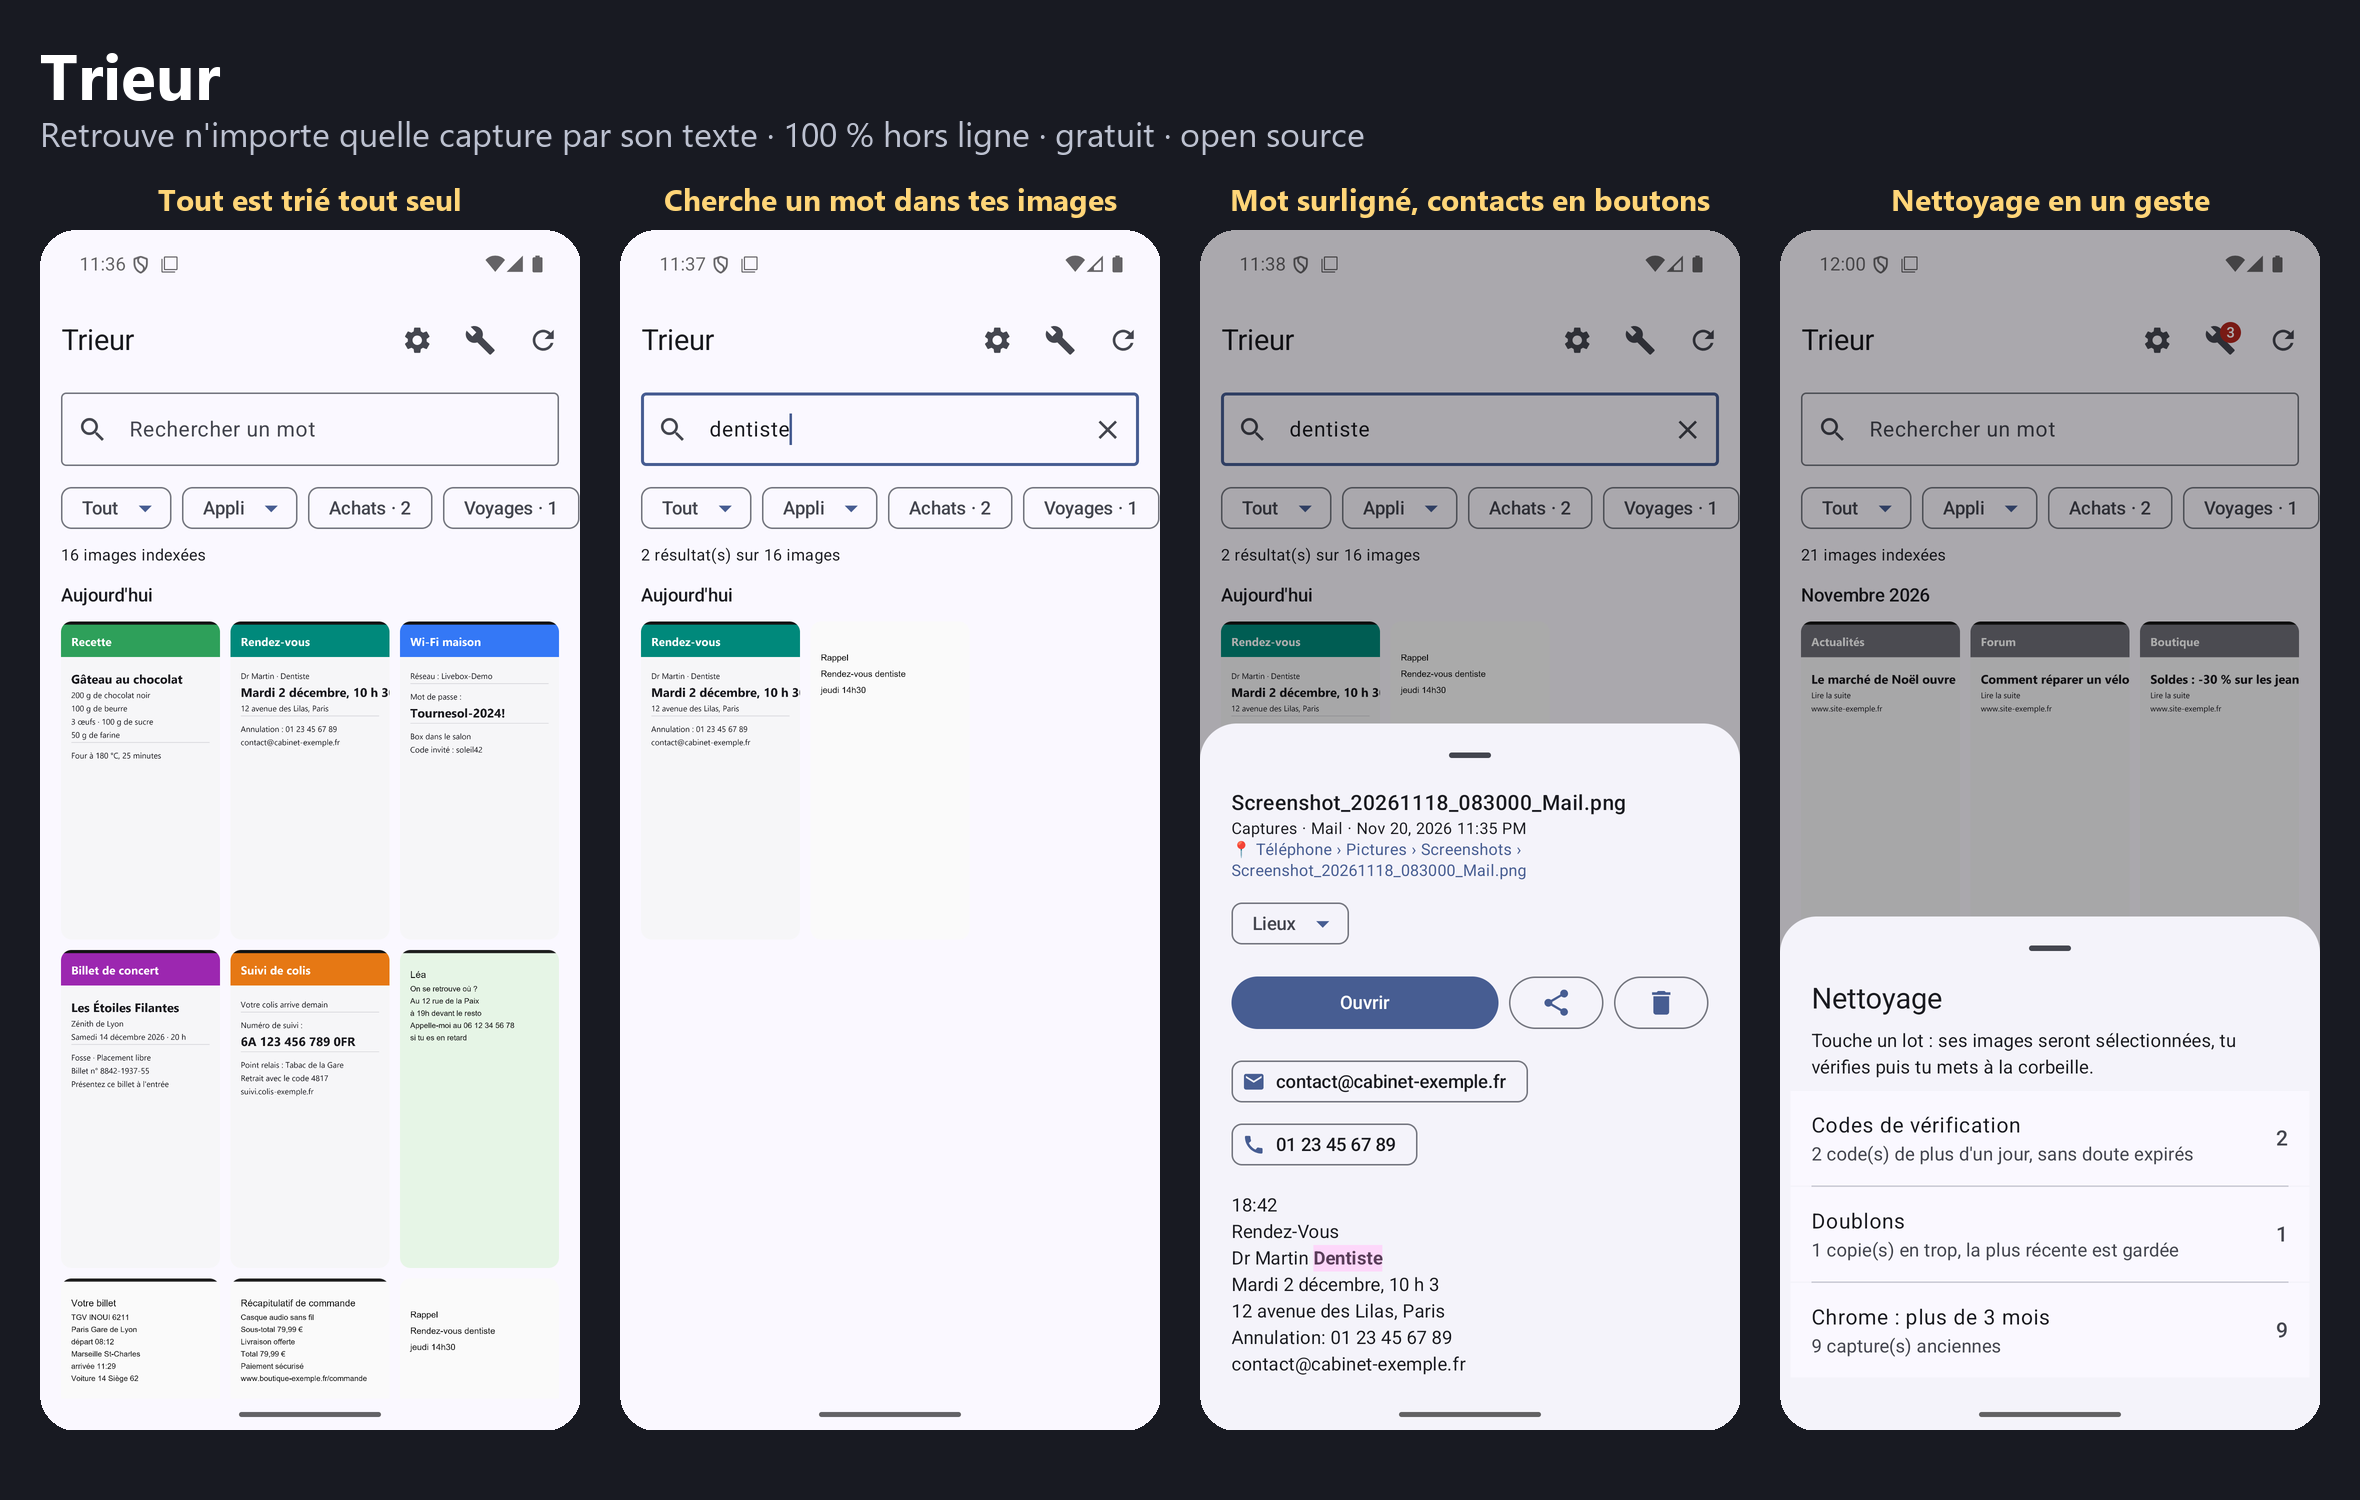
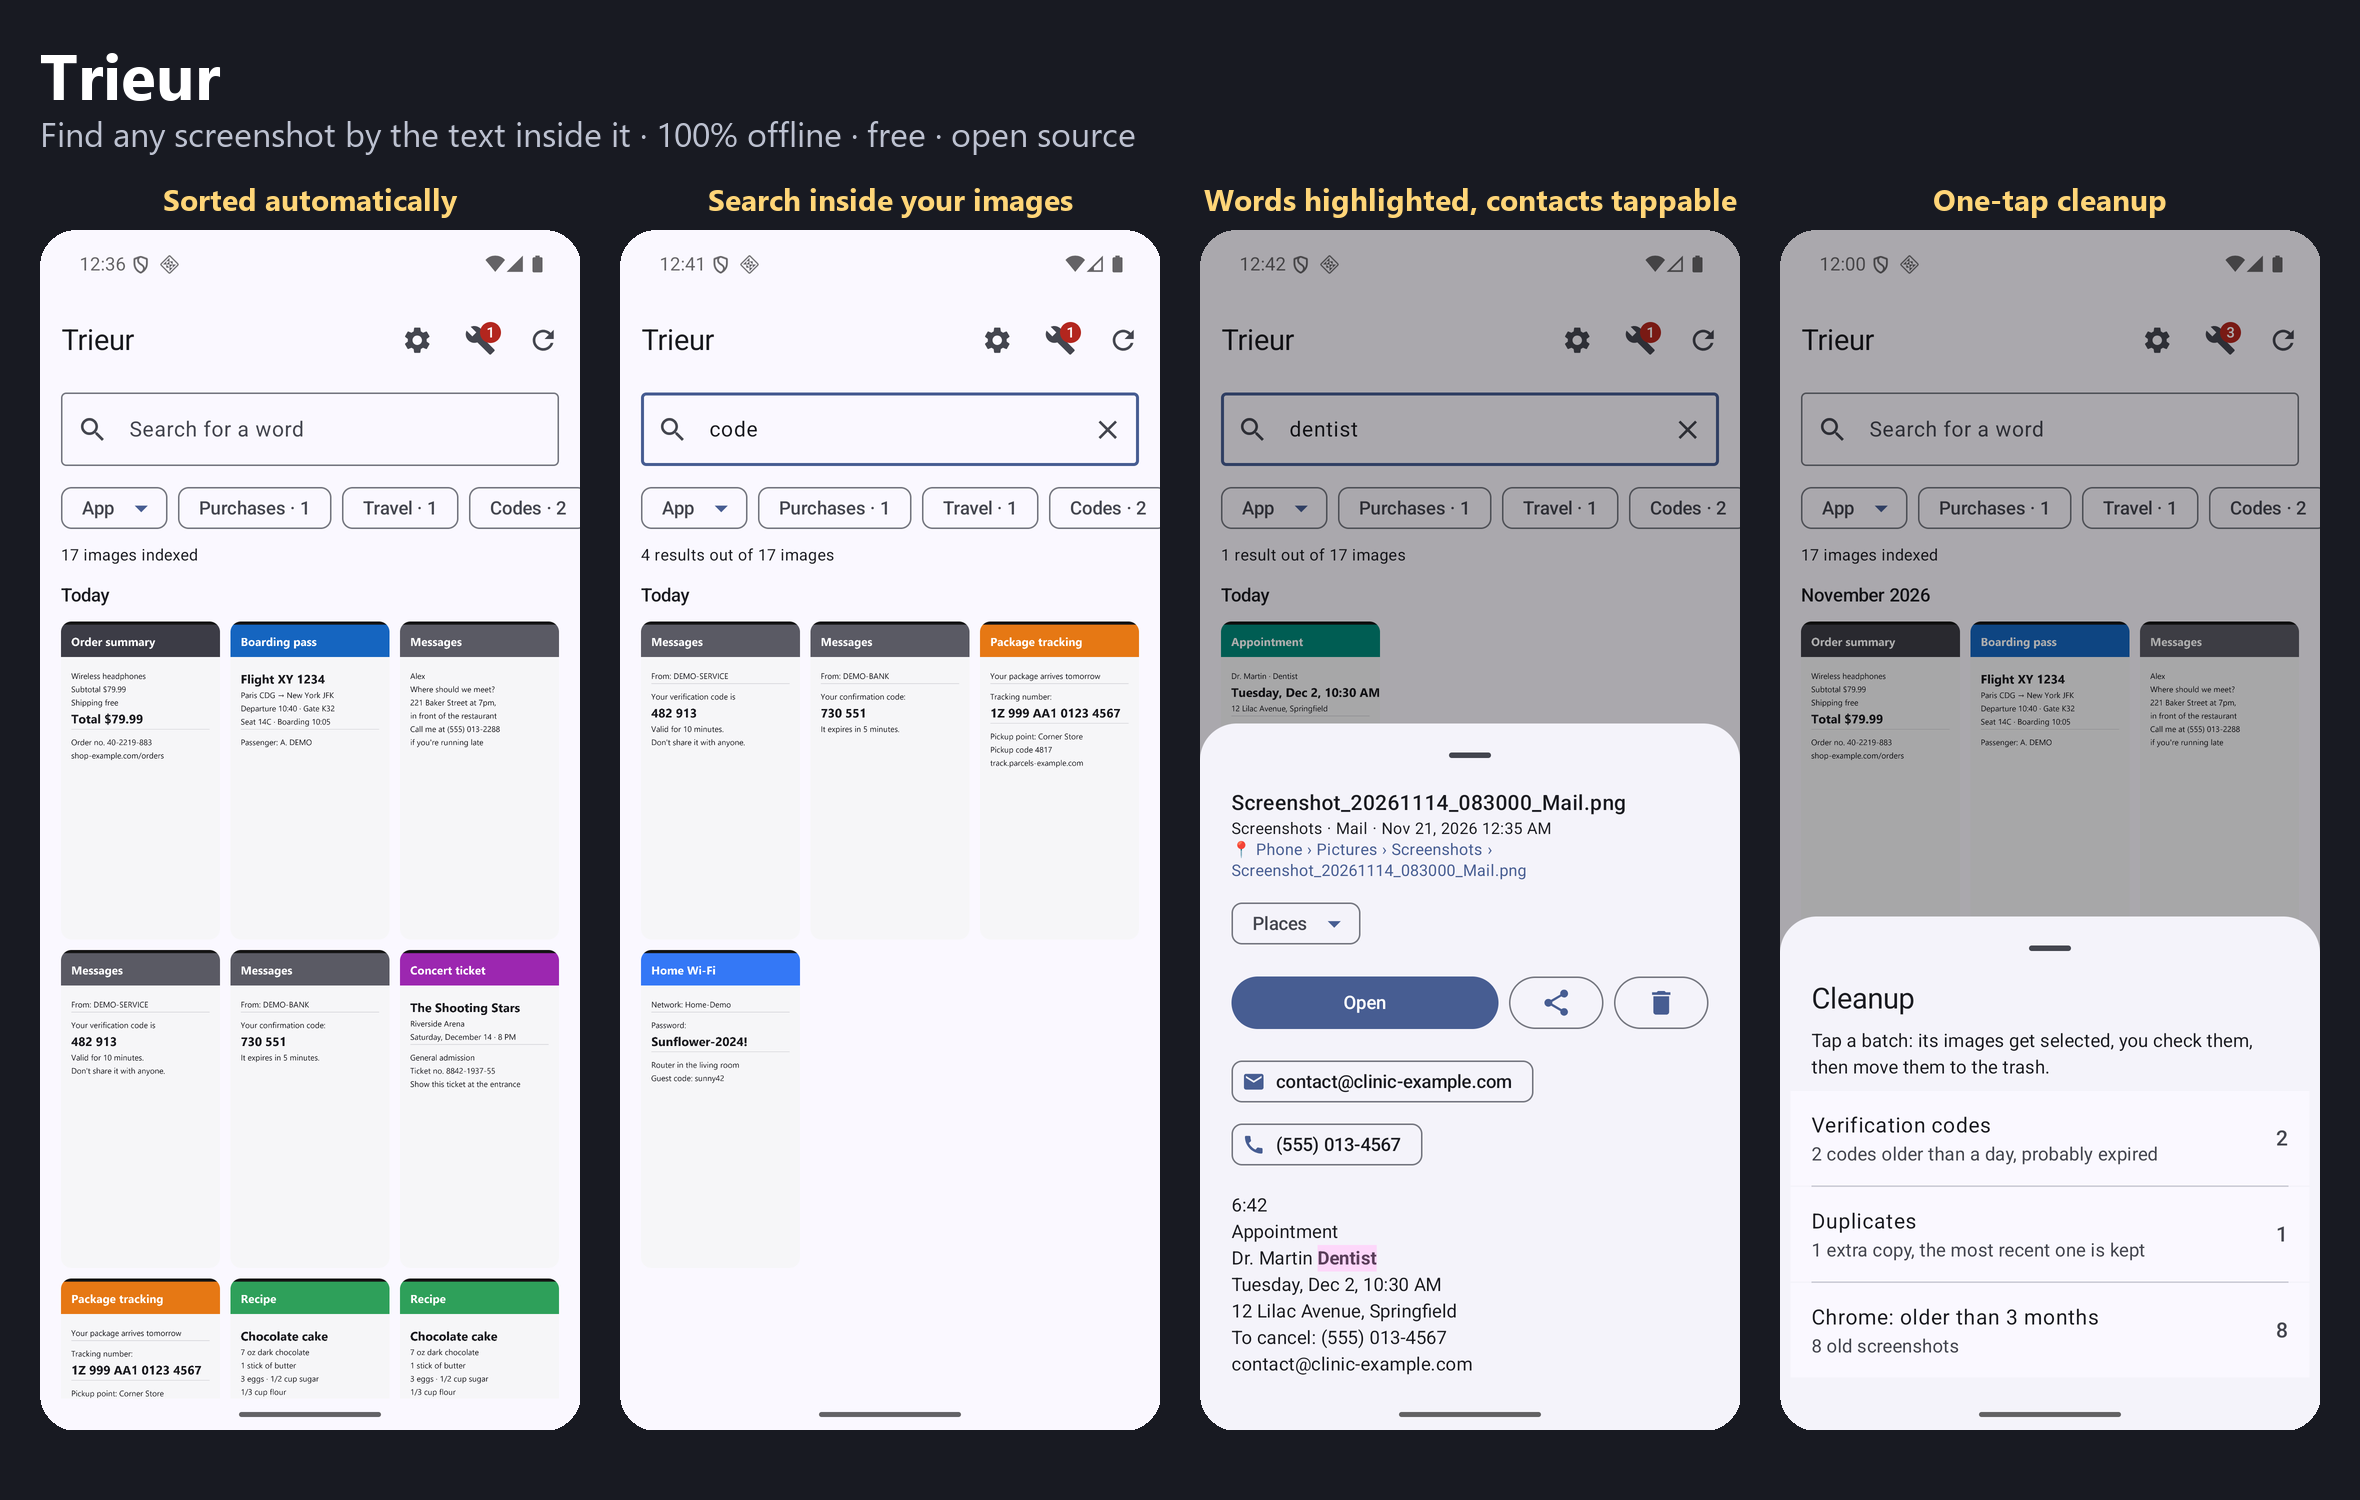
Numéros de téléphone internationaux (US, +44…), vrais pluriels, captures en anglais ; version 1.2
Claude-Session: https://claude.ai/code/session_01EpDP6y3CgWhQAsLqBwaXEt

diff --git a/app/src/main/java/com/trieur/screenshots/data/Cleanup.kt b/app/src/main/java/com/trieur/screenshots/data/Cleanup.kt
@@ -1,5 +1,7 @@
 package com.trieur.screenshots.data
 
+import com.trieur.screenshots.plural
+
 import com.trieur.screenshots.tr
 
 import java.util.concurrent.TimeUnit
@@ -27,11 +29,11 @@ fun cleanupSuggestions(all: List<Screenshot>, now: Long, minPerApp: Int = 5): Li
 
     candidates.filter { it.category == Category.CODE.name && now - it.dateTaken > DAY }
         .takeIf { it.isNotEmpty() }
-        ?.let { out += Suggestion("codes", tr("Codes de vérification", "Verification codes"), tr("${it.size} code(s) de plus d'un jour, sans doute expirés", "${it.size} code(s) older than a day, probably expired"), it.ids()) }
+        ?.let { out += Suggestion("codes", tr("Codes de vérification", "Verification codes"), plural(it.size, "1 code de plus d'un jour, sans doute expiré", "${it.size} codes de plus d'un jour, sans doute expirés", "1 code older than a day, probably expired", "${it.size} codes older than a day, probably expired"), it.ids()) }
 
     val extraCopies = Duplicates.groups(candidates).flatMap { it.drop(1) }
     if (extraCopies.isNotEmpty()) {
-        out += Suggestion("doublons", tr("Doublons", "Duplicates"), tr("${extraCopies.size} copie(s) en trop, la plus récente est gardée", "${extraCopies.size} extra copy(ies), the most recent one is kept"), extraCopies.ids())
+        out += Suggestion("doublons", tr("Doublons", "Duplicates"), plural(extraCopies.size, "1 copie en trop, la plus récente est gardée", "${extraCopies.size} copies en trop, la plus récente est gardée", "1 extra copy, the most recent one is kept", "${extraCopies.size} extra copies, the most recent one is kept"), extraCopies.ids())
     }
 
     // Jamais les photos de l'appareil photo : ce sont des souvenirs, pas du désordre.
@@ -40,12 +42,12 @@ fun cleanupSuggestions(all: List<Screenshot>, now: Long, minPerApp: Int = 5): Li
         .filterValues { it.size >= minPerApp }
         .entries.sortedByDescending { it.value.size }
         .forEach { (app, shots) ->
-            out += Suggestion("vieux:$app", tr("$app : plus de 3 mois", "$app: older than 3 months"), tr("${shots.size} capture(s) anciennes", "${shots.size} old screenshot(s)"), shots.ids())
+            out += Suggestion("vieux:$app", tr("$app : plus de 3 mois", "$app: older than 3 months"), plural(shots.size, "1 capture ancienne", "${shots.size} captures anciennes", "1 old screenshot", "${shots.size} old screenshots"), shots.ids())
         }
 
     candidates.filter { it.category == Category.NO_TEXT.name }
         .takeIf { it.isNotEmpty() }
-        ?.let { out += Suggestion("sans-texte", tr("Captures sans texte", "Screenshots without text"), tr("${it.size} capture(s) où aucun texte n'a été lu", "${it.size} screenshot(s) where no text was found"), it.ids()) }
+        ?.let { out += Suggestion("sans-texte", tr("Captures sans texte", "Screenshots without text"), plural(it.size, "1 capture où aucun texte n'a été lu", "${it.size} captures où aucun texte n'a été lu", "1 screenshot with no text found", "${it.size} screenshots with no text found"), it.ids()) }
 
     return out
 }

diff --git a/app/src/main/java/com/trieur/screenshots/ui/MainScreen.kt b/app/src/main/java/com/trieur/screenshots/ui/MainScreen.kt
@@ -329,7 +329,7 @@ private fun StatusLine(scan: ScanState, indexed: Int, resultCount: Int, filterin
                 color = MaterialTheme.colorScheme.error,
             )
             filtering -> Text(
-                tr("$resultCount résultat(s) sur $indexed images", "$resultCount result(s) out of $indexed images"),
+                plural(resultCount, "$resultCount résultat sur $indexed images", "$resultCount résultats sur $indexed images", "1 result out of $indexed images", "$resultCount results out of $indexed images"),
                 style = MaterialTheme.typography.bodySmall,
             )
             else -> Text(tr("$indexed images indexées", "$indexed images indexed"), style = MaterialTheme.typography.bodySmall)

diff --git a/app/src/main/java/com/trieur/screenshots/data/Detected.kt b/app/src/main/java/com/trieur/screenshots/data/Detected.kt
@@ -56,4 +56,11 @@ private val URL = Regex(
     RegexOption.IGNORE_CASE,
 )
 
-private val PHONE = Regex("""(?<![\w+])(?:\+33\s?|0033\s?|[0Oo])[1-9](?:[\s.-]?\d{2}){4}(?!\d)""")
+private val PHONE = Regex(
+    // France : 06 12 34 56 78, +33 6 12 34 56 78
+    """(?<![\w+])(?:\+33\s?|0033\s?|[0Oo])[1-9](?:[\s.-]?\d{2}){4}(?!\d)|""" +
+        // Amérique du Nord : (555) 013-4567, 555-013-4567, +1 555 013 4567
+        """(?<![\w+])(?:\+1[\s.-]?)?\(?[2-9]\d{2}\)?[\s.-]\d{3}[\s.-]\d{4}(?!\d)|""" +
+        // International avec indicatif : +44 20 7946 0958, +49 30 1234567
+        """(?<![\w+])\+(?:[2-9]\d{0,2})(?:[\s.-]?\(?\d{1,4}\)?){2,5}(?!\d)"""
+)

diff --git a/app/src/test/java/com/trieur/screenshots/data/DetectTest.kt b/app/src/test/java/com/trieur/screenshots/data/DetectTest.kt
@@ -61,4 +61,12 @@ class DetectTest {
     fun timesAndPricesAreNotLinks() {
         assertTrue(detect("Il est 12.30, ça coûte 4.99 €").isEmpty())
     }
+
+    @Test
+    fun internationalPhoneNumbers() {
+        val dials = detect("Call (555) 013-4567 or +44 20 7946 0958, office 555-013-9999").filterIsInstance<Detected.Phone>().map { it.dial }
+        assertEquals(listOf("5550134567", "+442079460958", "5550139999"), dials)
+        // Dates, prix et codes ne sont pas des numéros.
+        assertTrue(detect("Order 2026-11-20 total $1,299.99, code 482913").none { it is Detected.Phone })
+    }
 }
